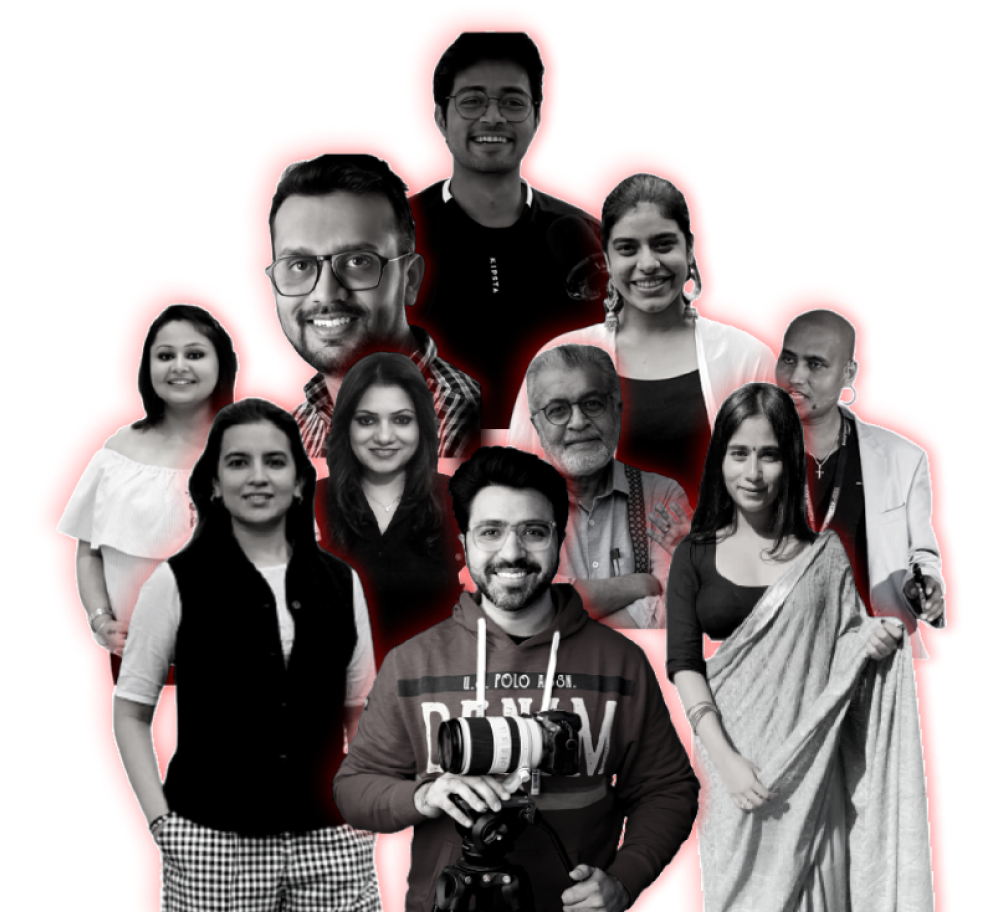
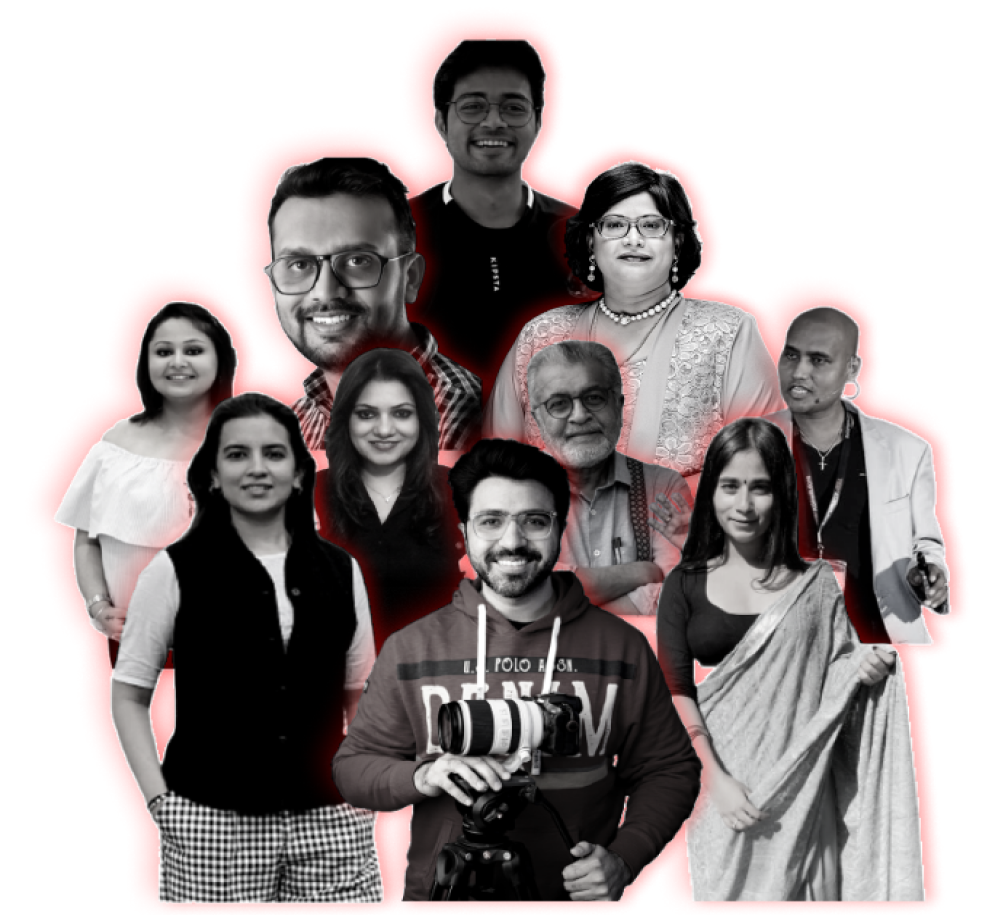
update speaker

diff --git a/src/data/speakers.data.js b/src/data/speakers.data.js
@@ -361,38 +361,68 @@ export const speakers = [
   },
   {
     id: '8',
-    name: 'Niyati Sharma',
-    profession: 'Founder of Pratisandhi Foundation',
+    name: 'Kamala Maddali',
+    profession: 'Author of "Becoming a Kamala"',
     socials: {
-      linkedInURL: 'https://linkedin.com/in/niyatisharma492',
-      instagramURL: 'https://instagram.com/niyatisharma492'
+      linkedInURL: 'https://linkedin.com/in/drkkmaddalihealthcollaborations/',
+      instagramURL: ''
     },
-    image: require('../assets/speakers/niyati.jpg').default,
+    image: require('../assets/speakers/kamala.jpg').default,
     shortBio:
-      'Niyati Sharma is the Founder and Executive Director of the Pratisandhi Foundation. Her team has positively impacted over 15,000 individuals through direct and indirect interventions. A published author, Niyati has released her book "Under The Carpet: The Sex Ed Everyone Needs" in 2021. Currently, she is an undergraduate student at the University of British Columbia.',
+      'Dr. Kamala Maddali is a clinically trained veterinarian who holds a doctorate in veterinary medicine and a doctorate in pharmacology. She is a precision medicine executive from Fortune 100 experience and has extensive knowledge in the field with over 20 years of experience implementing corporate strategic initiatives and has helped advance precision medicine over the last two decades. She has served as an Executive Advisor to cultivate artificial intelligence, digital health, and solutions centred on modern precision medicine. In 2021, Dr. Kamala Maddali was awarded Pharma Voice 2021 Top 100 most inspiring leaders in the life sciences and healthcare industry.',
     longBio: (
       <>
         <p>
-          Niyati Sharma is the Founder and Executive Director of Pratisandhi
-          Foundation, a student-led non-profit organization dedicated to the
-          sexual health and education of Indian adolescents and youth. Her team
-          has positively impacted over 15,000 individuals through direct and
-          indirect interventions. They have been featured by various media
-          platforms such as Femina India, Indian Express, NDTV, and The Quint,
-          among others. Most recently, Niyati was featured as a ‘30 under 30’
-          young entrepreneur at the i5 Sumit by IIM Indore.
+          Dr. Kamala Maddali is a clinically trained veterinarian who holds a
+          doctorate in veterinary medicine from the Sri Venkateswara Veterinary
+          University in India and a doctorate in pharmacology from the
+          University of Missouri-Columbia. Dr. Maddali has strong medical,
+          scientific as well as rare disease roots, which gives her an edge as a
+          visionary leader who fosters collaboration between medical, patient,
+          and healthcare innovation sectors.
         </p>
         <p>
-          A published author, Niyati has released her book “Under The Carpet:
-          The Sex Ed Everyone Needs” in 2021. She holds an International
-          Certificate of Knowledge in Sexual and Reproductive Healthcare from
-          the Faculty of Sexual and Reproductive Healthcare (FSRH) of the Royal
-          College of Obstetricians and Gynaecologists, along with being a
-          certified sexuality educator. She is also an incoming participant in
-          the upcoming cohort of the Sex Education Initiative Training by the
-          Teachers College, Columbia University, New York. Currently, Niyati is
-          an undergraduate student at the University of British Columbia,
-          Vancouver.
+          Dr. Maddali is a native of Andhra Pradesh, India. A precision medicine
+          executive at Fortune 100 and 500 companies like Merck & Co, Quintiles,
+          IQVIA, Quest Diagnostics, Dr. Maddali has extensive knowledge in the
+          field. With over 20 years of experience implementing corporate
+          strategic initiatives, she has helped advance precision medicine over
+          the last two decades. Among her expertise is Precision Medicine
+          including diagnostics such as biomarkers and companion diagnostics,
+          devices, therapeutics, recruitment of patients, patient engagement,
+          patient experience and empowerment. Several healthcare technology
+          companies have tapped Dr. Maddali to serve as an executive advisor to
+          cultivate artificial intelligence, digital health, and solutions
+          centered on modern precision medicine. With the increased interest in
+          patient centricity in clinical trials and clinical research, her
+          unique involvement with Patient Advocacy and support groups in
+          converging precision medicine, clinical trials and clinical research
+          could make a significant difference.
+        </p>
+        <p>
+          Whenever possible, Dr. Maddali wants to ensure the patient’s voice is
+          heard, and she strives to provide every patient with powerful tools
+          from science and innovation in order to improve global community
+          health. Her personal experience as a rare disease neuro – degenerative
+          patient with signs like Multiple Sclerosis and Parkinson’s makes her a
+          unique, empathic voice in precision medicine.
+        </p>
+        <p>
+          Dr. Maddali is a board and advisory board member for several
+          US/International based patient advocacy associations like “Paltown”,
+          Love Heals Cancer, Aarogya, Indo-US Rare disease organization, Adira
+          Foundation working to foster knowledge about cancer, rare disease
+          diagnosis and prevention, and neuro-degenerative disease management.
+          She has earned the trust of patients, oncologists, and KOLs by her
+          involvement in patient advocacy.
+        </p>
+        <p>
+          In 2021, Dr. Kamala Maddali was awarded Pharma Voice 2021 Top 100 Most
+          Inspiring Leaders in the Life Sciences and Healthcare Industry. The
+          award is prestigious and honorable recognition to be a part of a
+          select group of leaders, mentors, and visionaries in the Life Sciences
+          who inspire change across their organizations, including Fortune 100
+          and 500 companies.
         </p>
       </>
     )

diff --git a/src/data/sponsors.data.js b/src/data/sponsors.data.js
@@ -3,6 +3,7 @@ export const sponsors = [
     key: '1',
     route: 'sponsor-1',
     name: 'Get Boarded',
+    type: 'Title Sponsor',
     website: 'https://getboarded.tech',
     image: require('../assets/sponsors/get-boarded.jpg').default
   },
@@ -10,6 +11,7 @@ export const sponsors = [
     key: '2',
     route: 'sponsor-2',
     name: 'MML Clothing',
+    type: 'Design Partner',
     website: 'https://instagram.com/clothingmml',
     image: require('../assets/sponsors/mml-clothing.jpg').default
   }
